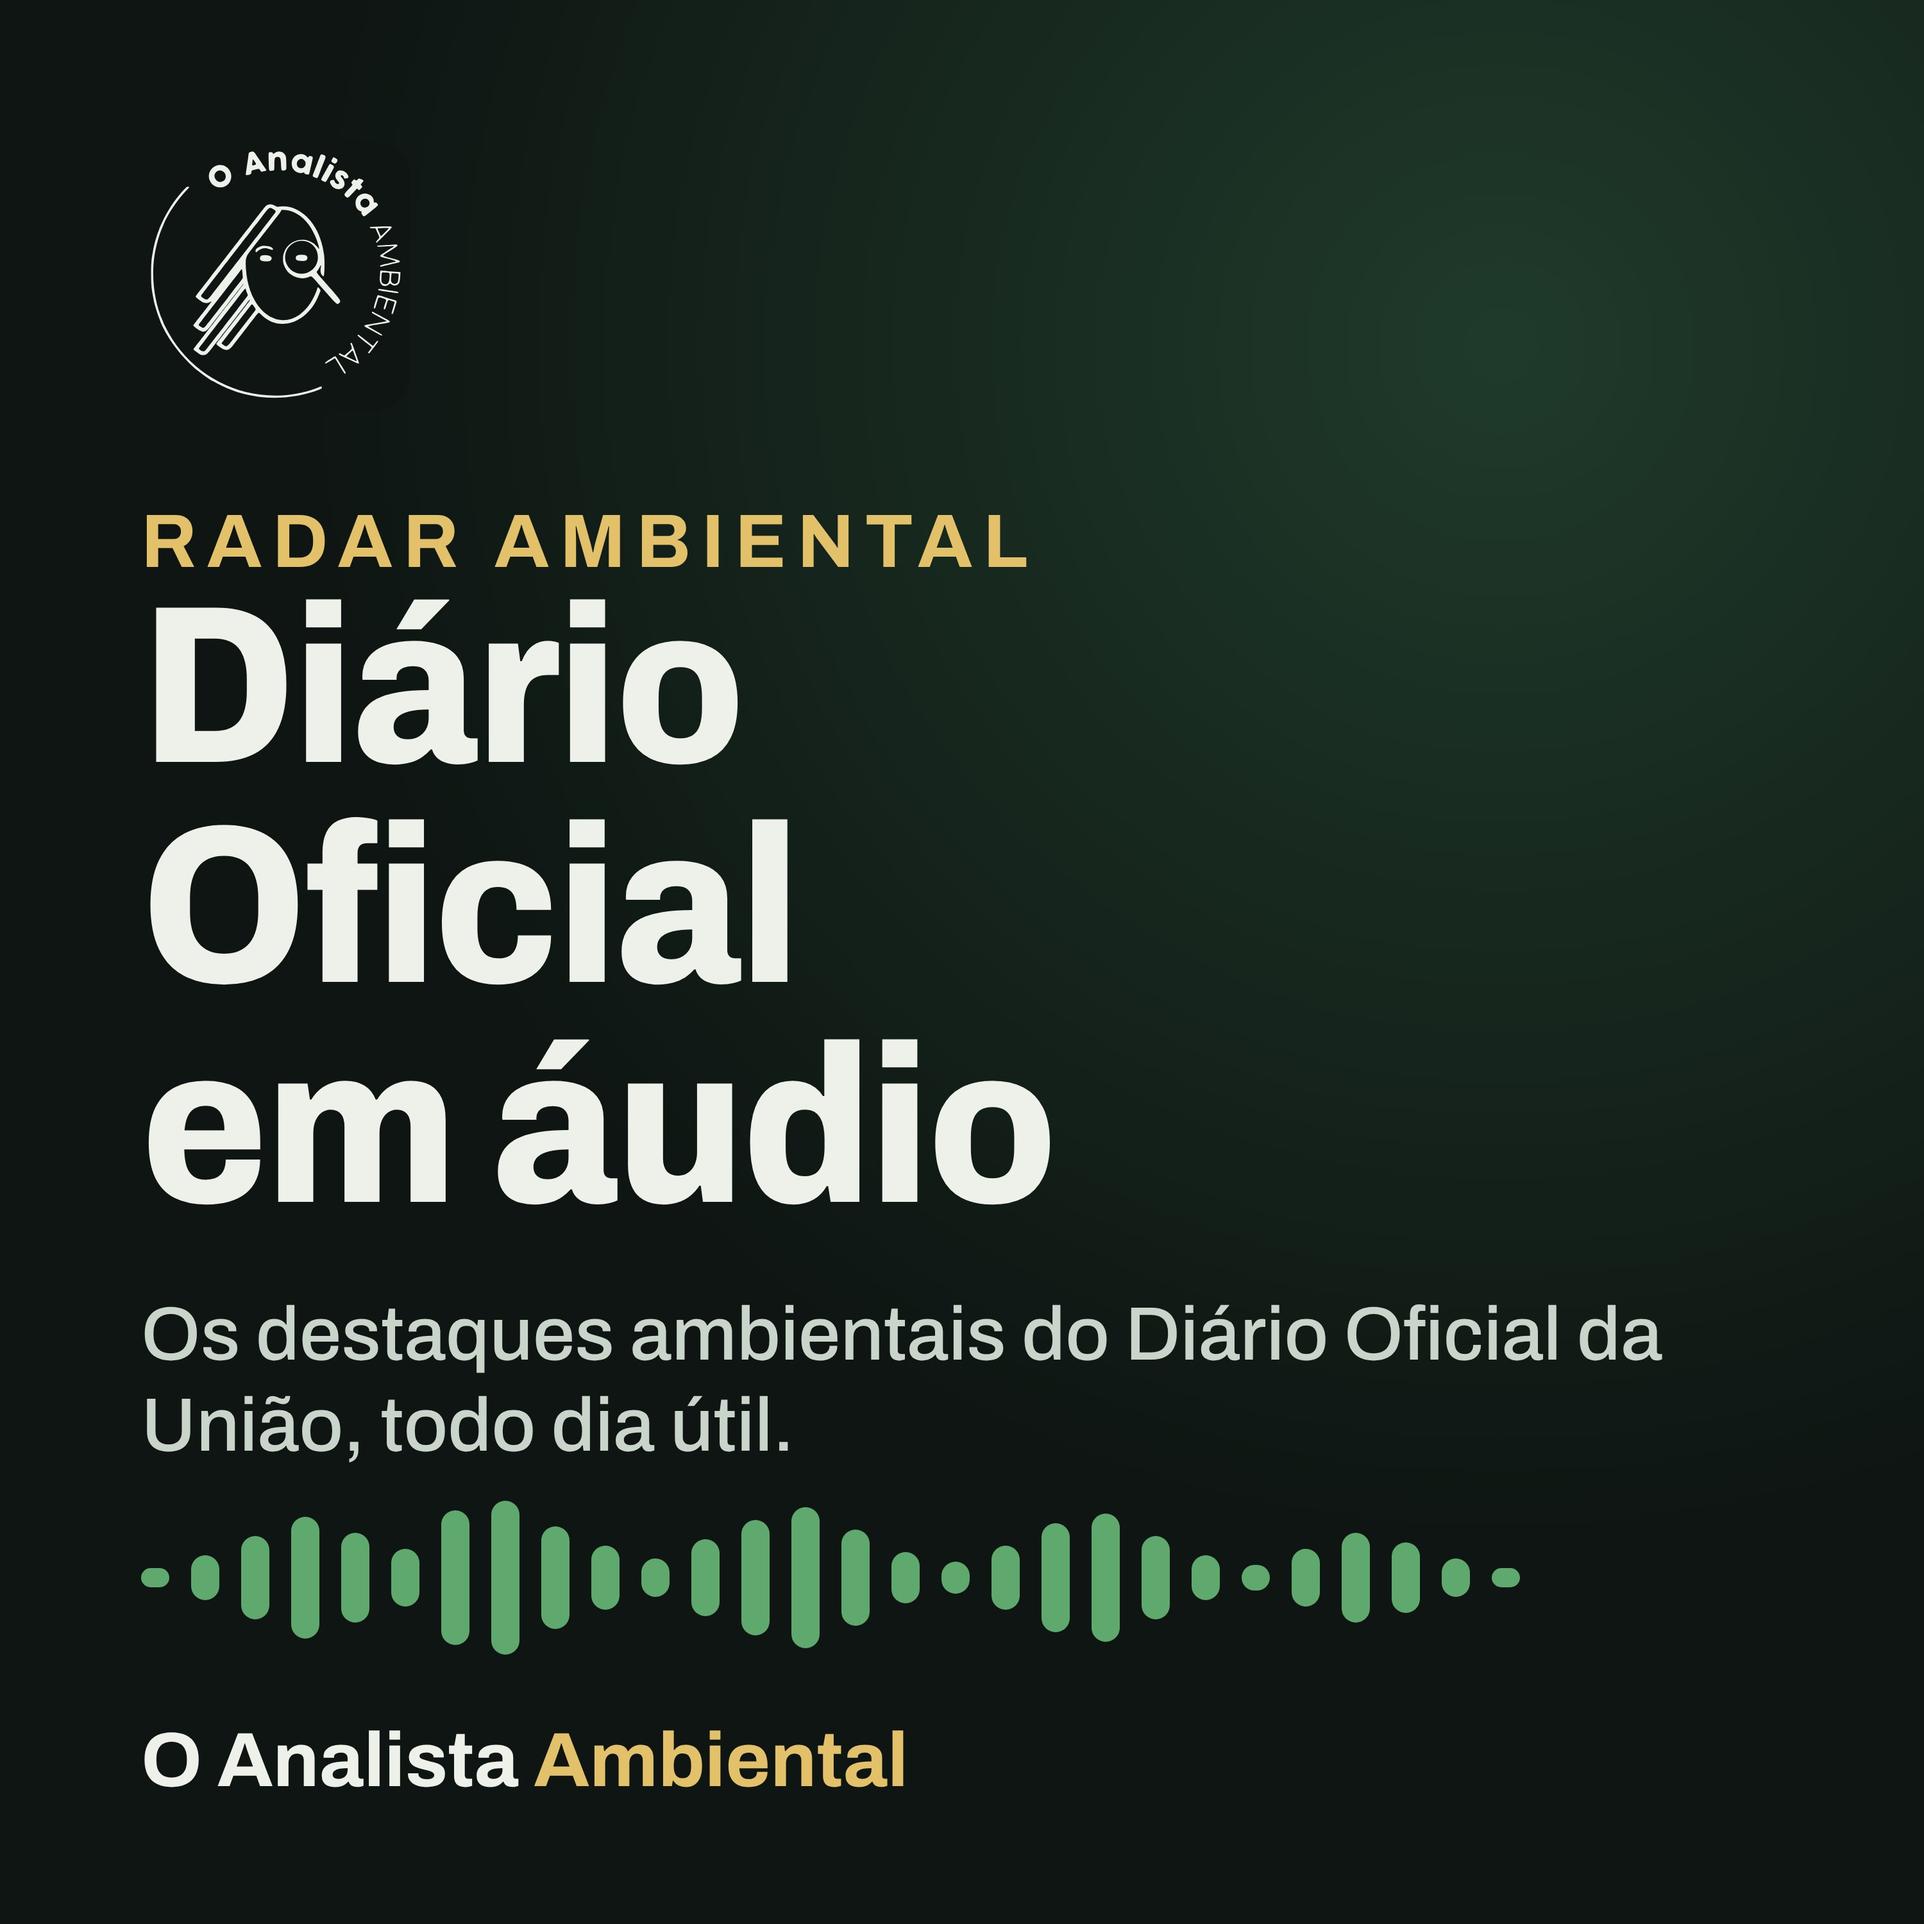
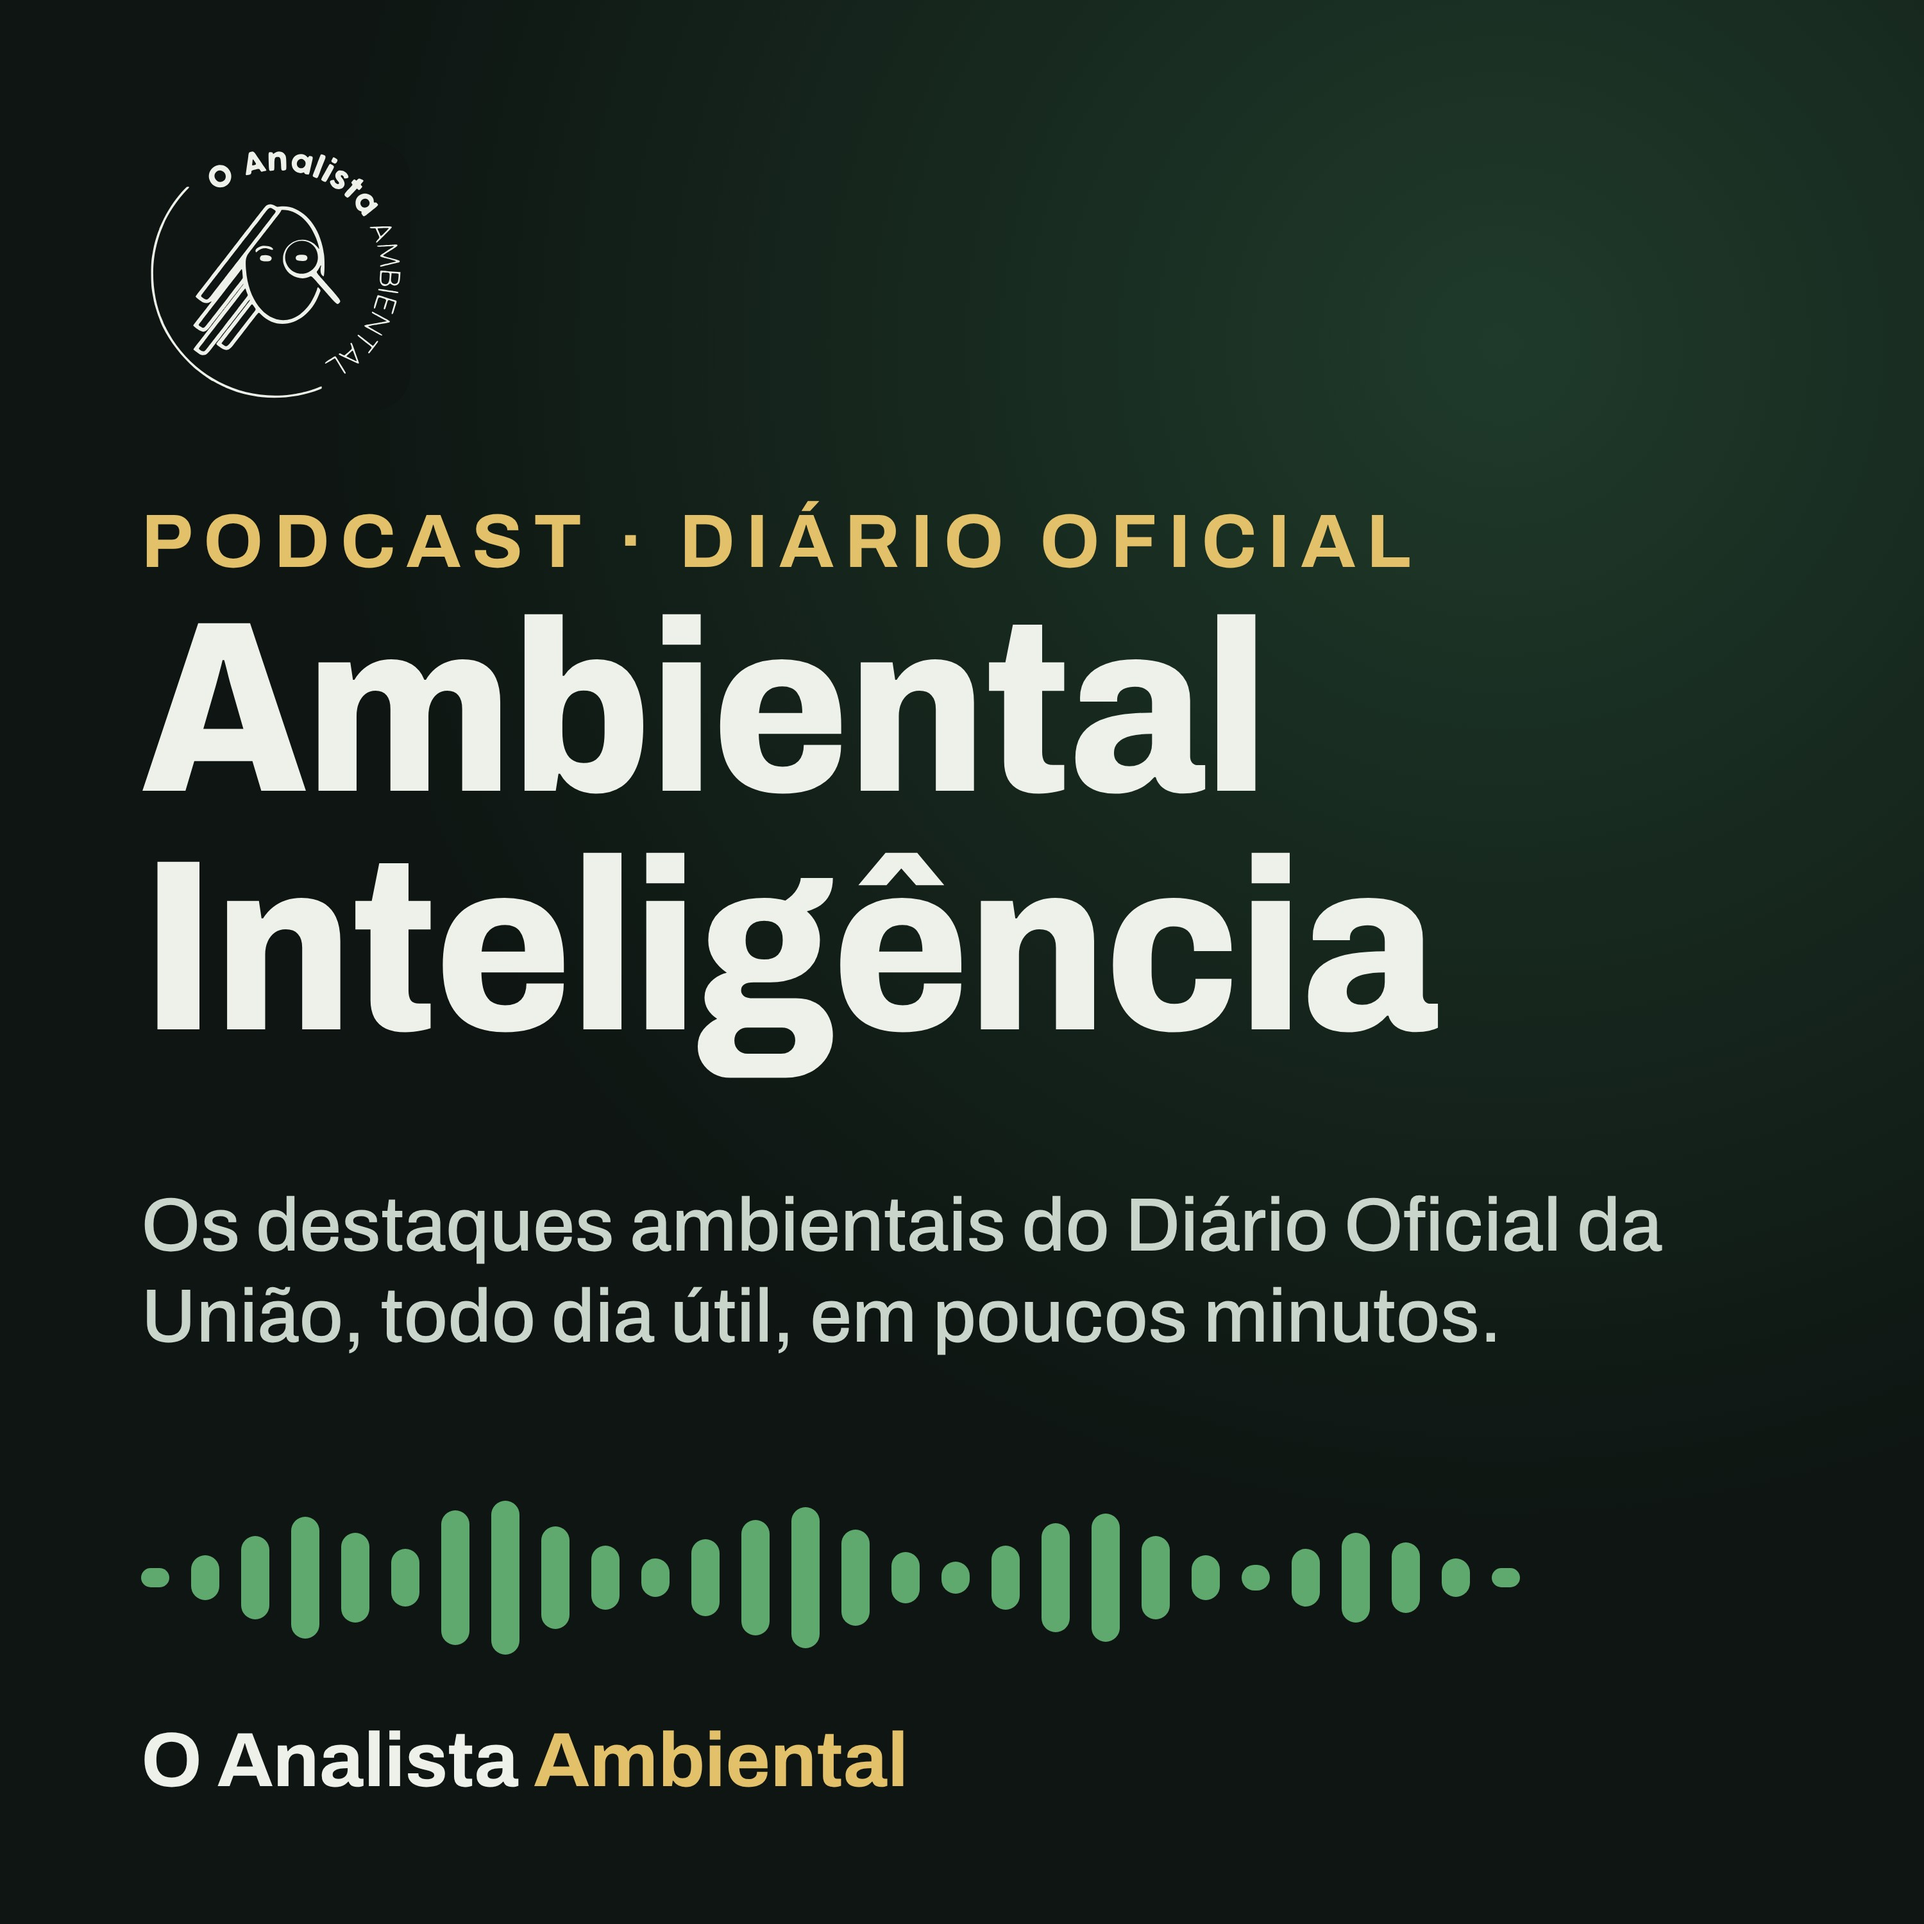
Podcast passa a se chamar Ambiental Inteligência (#63)
Nome no RSS, capa nova, abertura dos próximos episódios, página e kit do DAE.
Os episódios já gravados mantêm a fala original (a transcrição é o que o áudio diz).

Claude-Session: https://claude.ai/code/session_01A3wiEUNDxi1BpkkSJN26K6

Changed region(s): [[0.062, 0.248, 0.868, 0.775]]

diff --git a/radar-audio.html b/radar-audio.html
@@ -6,7 +6,7 @@
 <title>Diário Oficial em áudio — O Analista Ambiental</title>
 <meta name="description" content="O Diário Oficial ambiental em áudio: episódios diários do Diário Oficial da União, com capítulos por destaque, e áudios por tema do Diário Oficial de Minas Gerais, sempre com o link do texto oficial.">
 <meta name="robots" content="noindex">
-<link rel="alternate" type="application/rss+xml" title="Radar Ambiental do Diário Oficial (podcast)" href="https://www.oanalistaambiental.com/radar/podcast.xml">
+<link rel="alternate" type="application/rss+xml" title="Ambiental Inteligência (podcast)" href="https://www.oanalistaambiental.com/radar/podcast.xml">
 <link rel="canonical" href="https://www.oanalistaambiental.com/radar-audio.html">
 <link rel="icon" href="assets/logo.png" type="image/png">
 <link rel="preconnect" href="https://fonts.googleapis.com">
@@ -138,7 +138,7 @@
 <section class="ra-hero">
   <div class="wrap stack-sm">
     <span class="ra-selo">Atualizado todo dia útil · versão de teste</span>
-    <p class="ref">Radar em áudio · Diário Oficial</p>
+    <p class="ref">Podcast Ambiental Inteligência · Diário Oficial</p>
     <h1>O Diário Oficial ambiental, em áudio</h1>
     <p class="ra-sub">Ouça em poucos minutos o que saiu de mais importante para a área ambiental no Diário Oficial da União e no Diário Oficial de Minas Gerais: o que muda, para quem e quando entra em vigor. Cada destaque traz o link para o texto oficial.</p>
     <div class="ra-agora"><button type="button" id="ra-agora" disabled>▶ Ouvir agora</button><span id="ra-agora-txt">Carregando o episódio mais recente…</span></div>
@@ -245,14 +245,14 @@
   var APPS=[ // abrem o app já na tela de assinar o podcast (link do RSS)
     {n:'Apple Podcasts',u:'podcasts://'+SEM,so:'ios'},
     {n:'Overcast',u:'overcast://x-callback-url/add?url='+ENC,so:'ios'},
-    {n:'AntennaPod',u:'https://antennapod.org/deeplink/subscribe/?url='+ENC+'&title='+encodeURIComponent('Radar Ambiental do Diário Oficial'),so:'android'},
+    {n:'AntennaPod',u:'https://antennapod.org/deeplink/subscribe/?url='+ENC+'&title='+encodeURIComponent('Ambiental Inteligência'),so:'android'},
     {n:'Podcast Addict',u:'intent://'+SEM+'#Intent;scheme=podcastaddict;package=com.bambuna.podcastaddict;S.browser_fallback_url='+PLAY('com.bambuna.podcastaddict')+';end',so:'android'},
     {n:'Pocket Casts',u:ANDROID?'intent://subscribe/'+SEM+'#Intent;scheme=pktc;package=au.com.shiftyjelly.pocketcasts;S.browser_fallback_url='+PLAY('au.com.shiftyjelly.pocketcasts')+';end':'pktc://subscribe/'+SEM,so:'todos'}];
   function podcast(){
     var bt=NOMES.filter(function(n){return /^https:\/\//.test(links[n[0]]||'')}).map(function(n,i){return '<a class="'+(i===0?'ra-pod__pri':'')+'" href="'+esc(links[n[0]])+'" target="_blank" rel="noopener">Ouvir no '+n[1]+'</a>'}).join('');
     var meus=APPS.filter(function(a){return a.so==='todos'||(IOS&&a.so==='ios')||(ANDROID&&a.so==='android')||(!IOS&&!ANDROID)});
     var apps=meus.map(function(a,i){return '<a class="'+(!bt&&i===0?'ra-pod__pri':'')+'" href="'+esc(a.u)+'">Assinar no '+a.n+'</a>'}).join('');
-    return '<div class="ra-pod" id="assinar"><img src="radar/podcast-capa.jpg" alt="" width="76" height="76"><div><b>Ouça no carro: assine o podcast</b>'+
+    return '<div class="ra-pod" id="assinar"><img src="radar/podcast-capa.jpg" alt="" width="76" height="76"><div><b>Ouça no carro: assine o podcast Ambiental Inteligência</b>'+
       '<p>Assinando, o episódio novo chega sozinho no seu app todo dia útil, para ouvir no carro ou no fone.'+(bt?'':' Spotify e YouTube Music: em cadastro.')+'</p></div>'+
       (bt?'<p class="ra-pod__lbl">Nas plataformas</p><div class="ra-pod__btns">'+bt+'</div>':'')+
       '<p class="ra-pod__lbl">No seu app de podcast'+(ANDROID?' (sem o app, abre a Play Store)':IOS?' (precisa do app instalado)':'')+'</p><div class="ra-pod__btns">'+apps+'</div>'+
@@ -299,7 +299,7 @@
   function sessao(a){
     if(!('mediaSession' in navigator))return;
     var m=META[a.id]||{};
-    try{navigator.mediaSession.metadata=new MediaMetadata({title:m.titulo||'Radar Ambiental do Diário Oficial',artist:'Radar Ambiental do Diário Oficial',album:'O Analista Ambiental',
+    try{navigator.mediaSession.metadata=new MediaMetadata({title:m.titulo||'Ambiental Inteligência',artist:'Ambiental Inteligência',album:'O Analista Ambiental',
       artwork:[{src:'radar/podcast-capa.jpg',sizes:'3000x3000',type:'image/jpeg'}]})}catch(e){}
     var caps=(m.inicios||[]);
     var acao=function(n,f){try{navigator.mediaSession.setActionHandler(n,f)}catch(e){}};

diff --git a/kit-ia-dae.html b/kit-ia-dae.html
@@ -137,7 +137,7 @@ mark.campo{background:var(--amar-f);color:inherit;border-radius:3px;padding:0 1p
 <a href="palestra-ia-dae-2026.html">Slides em PDF<span>com as fontes de cada dado</span></a>
 <a href="memorial-geo.html">Memorial descritivo → mapa<span>KML ou Shapefile, funciona offline</span></a>
 <a href="ferramentas.html">Ferramentas grátis<span>todas as ferramentas do site</span></a>
-<a href="radar-audio.html#federal">Diário Oficial em áudio<span>podcast com os destaques ambientais do DOU, todo dia útil</span></a>
+<a href="radar-audio.html#federal">Diário Oficial em áudio<span>podcast Ambiental Inteligência: os destaques ambientais do DOU, todo dia útil</span></a>
 <a href="chao-geo-mg.html#baixar">App Chão Geo MG<span>Android, versão de teste em APK</span></a>
 <a href="chaogeo/#baixar">App Chão Geo (Brasil)<span>Android, versão de teste em APK</span></a>
 </div>

diff --git a/radar/gerador/radar_audio.py b/radar/gerador/radar_audio.py
@@ -307,7 +307,7 @@ def episodio_auto(data, atos):
     quando = f"{DIAS_SEMANA[d.weekday()]}, {data_extenso(data)} de {d.year}"
     atos = sorted(atos, key=peso)
     caps, usadas = [], 0
-    abre = (f"Olá! Este é o Radar Ambiental do Diário Oficial da União, edição de {quando}. "
+    abre = (f"Olá! Este é o Ambiental Inteligência, os destaques ambientais do Diário Oficial da União, edição de {quando}. "
             f"Hoje {'é um destaque' if len(atos) == 1 else f'são {len(atos)} destaques'} da área ambiental.")
     caps.append({"titulo": "Abertura", "tema": None, "atos": [], "fala": abre})
     usadas += len(abre.split()) + 45  # reserva para o fechamento
@@ -378,7 +378,7 @@ def sintetizar_episodio(ep, destino, chave):
         lista.write_text("".join(f"file '{p}'\n" for p in partes))
         subprocess.run(["ffmpeg", "-loglevel", "error", "-y", "-f", "concat", "-safe", "0", "-i", str(lista),
                         "-ac", "1", "-ar", "44100", "-b:a", "96k", "-id3v2_version", "3",
-                        "-metadata", f"title=Radar Ambiental do DOU, {ep['data']}", "-metadata", "artist=O Analista Ambiental",
+                        "-metadata", f"title=Ambiental Inteligência, DOU de {ep['data']}", "-metadata", "artist=O Analista Ambiental",
                         str(destino)], check=True)
     for c, ini in zip(ep["capitulos"], inicios):
         c["inicio_s"] = ini
@@ -390,12 +390,12 @@ def sintetizar_episodio(ep, destino, chave):
 
 SITE = "https://www.oanalistaambiental.com/"
 PODCAST = {
-    "titulo": "Radar Ambiental do Diário Oficial",
+    "titulo": "Ambiental Inteligência",
     "autor": "O Analista Ambiental",
     "email": "contato@oanalistaambiental.com",
     "pagina": SITE + "radar-audio.html",
     "capa": SITE + "radar/podcast-capa.jpg",
-    "descricao": ("Os destaques ambientais do Diário Oficial da União, todo dia útil, em poucos minutos: o que muda, para quem e "
+    "descricao": ("O Ambiental Inteligência traz os destaques ambientais do Diário Oficial da União, todo dia útil, em poucos minutos: o que muda, para quem e "
                   "quando entra em vigor. Licenciamento, água e outorga, fiscalização, flora e unidades de conservação, fauna e "
                   "pesca, mineração e barragens, Conama, Ibama, ICMBio, ANA e MMA. Resumo e voz gerados por inteligência "
                   "artificial a partir do texto publicado; confira sempre o texto oficial pelos links de cada episódio. "
